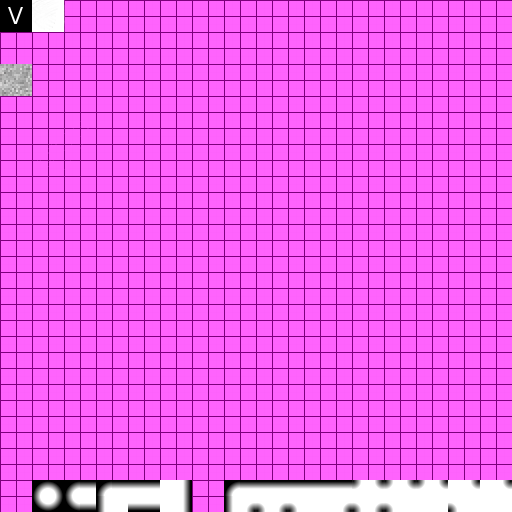
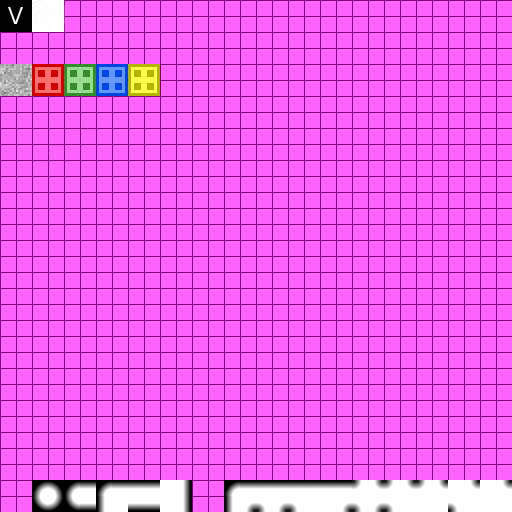
Markertexturen für Boden

Changed region(s): [[0.0625, 0.125, 0.3125, 0.1875]]

diff --git a/src/de/_13ducks/spacebatz/client/graphics/controls/GodControl.java b/src/de/_13ducks/spacebatz/client/graphics/controls/GodControl.java
@@ -258,8 +258,8 @@ public class GodControl implements Control {
                 int shadow = shadowAt(GameClient.currentLevel.shadow, x, y);
                 if ((shadowLevel == 1 && shadow != 127) || !surroundingDark(GameClient.currentLevel.shadow, x, y) || shadowLevel == 0) {
                     int patRot = patternAt(ground, x, y);
-                    if (smoothGround && tex < 32 && (patRot >> 4) != 5) {
-                        int blendTex = blendTexAt(ground, x, y, patRot >> 4, patRot & 0x0F);
+                    int blendTex = blendTexAt(ground, x, y, patRot >> 4, patRot & 0x0F);
+                    if (smoothGround && tex < 32 && blendTex >= 32 && (patRot >> 4) != 5) {
                         ARBShaderObjects.glUseProgramObjectARB(shader[1]);
                         int dx1adr = ARBShaderObjects.glGetUniformLocationARB(shader[1], "tex1deltaX");
                         int dy1adr = ARBShaderObjects.glGetUniformLocationARB(shader[1], "tex1deltaY");

diff --git a/src/de/_13ducks/spacebatz/util/mapgen/modules/ExampleQuestCreator.java b/src/de/_13ducks/spacebatz/util/mapgen/modules/ExampleQuestCreator.java
@@ -62,7 +62,7 @@ public class ExampleQuestCreator extends Module {
 
         // Zufälligen nehmen:
         final MPolygon targetPoly = acceptablePolys.get(random.nextInt(acceptablePolys.size()));
-        targetPoly.texture = 5;
+        targetPoly.texture = 34;
         // Quest bauen:
         Quest q = new Quest() {
             @Override
